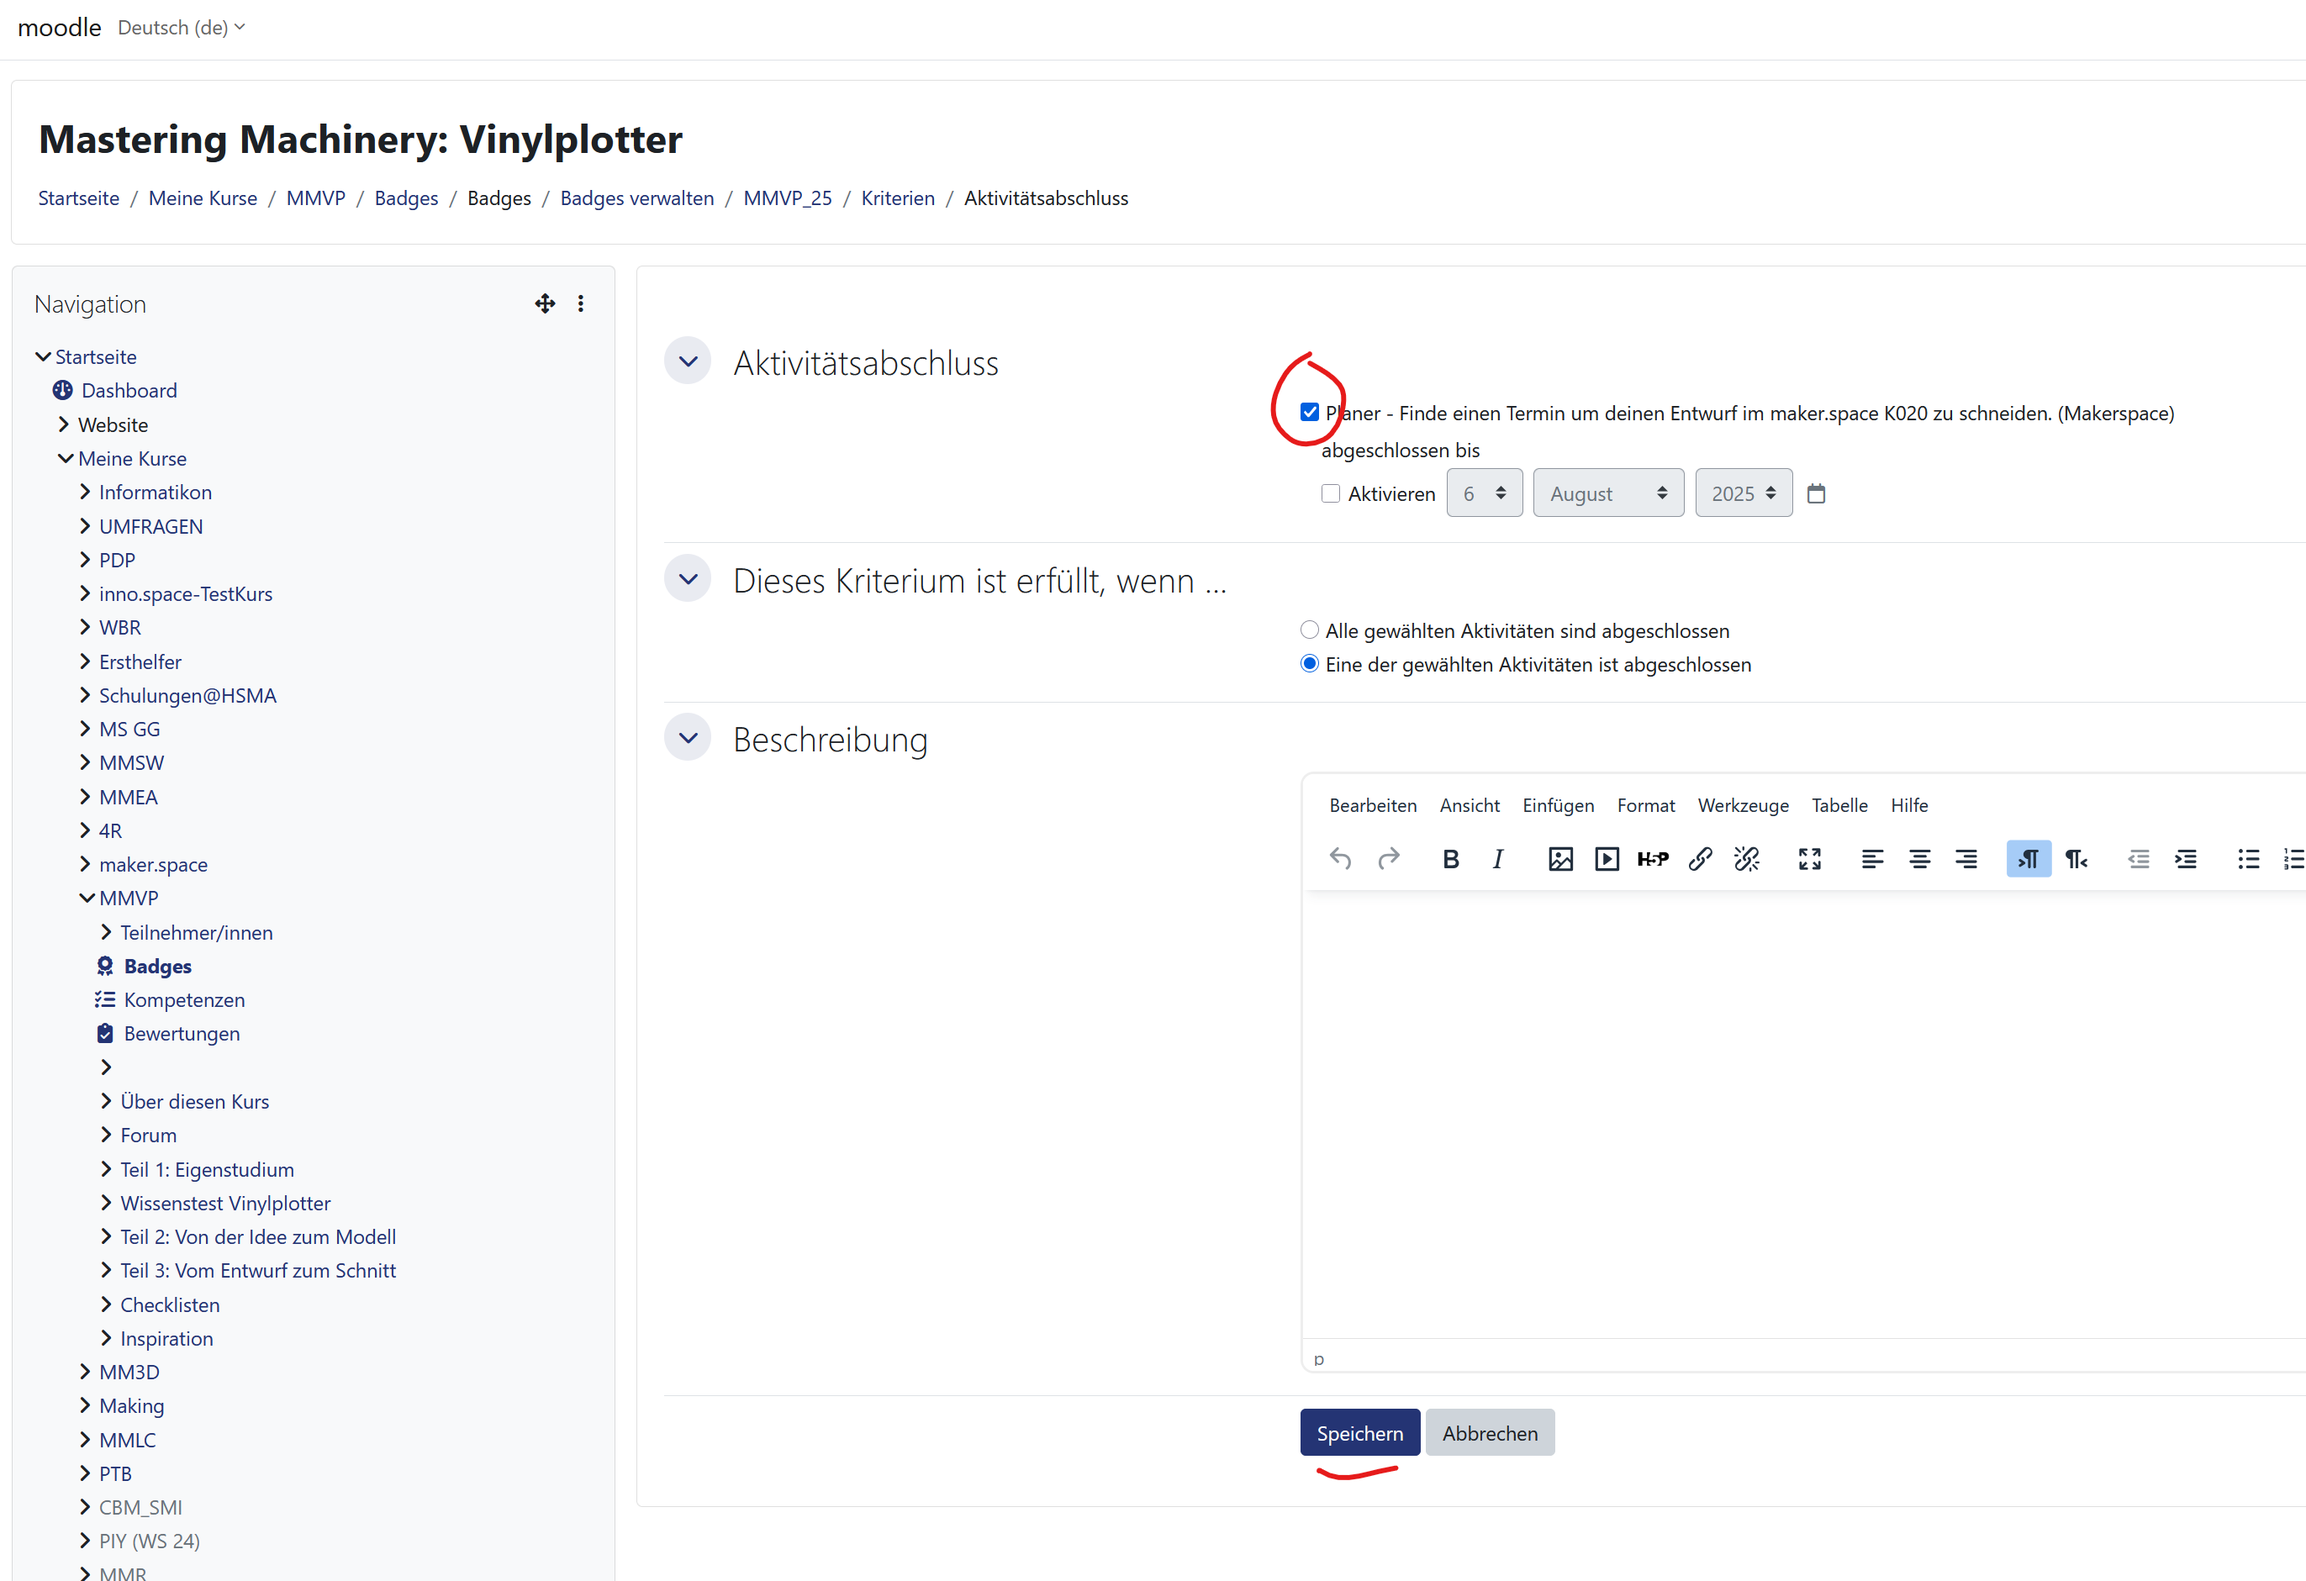
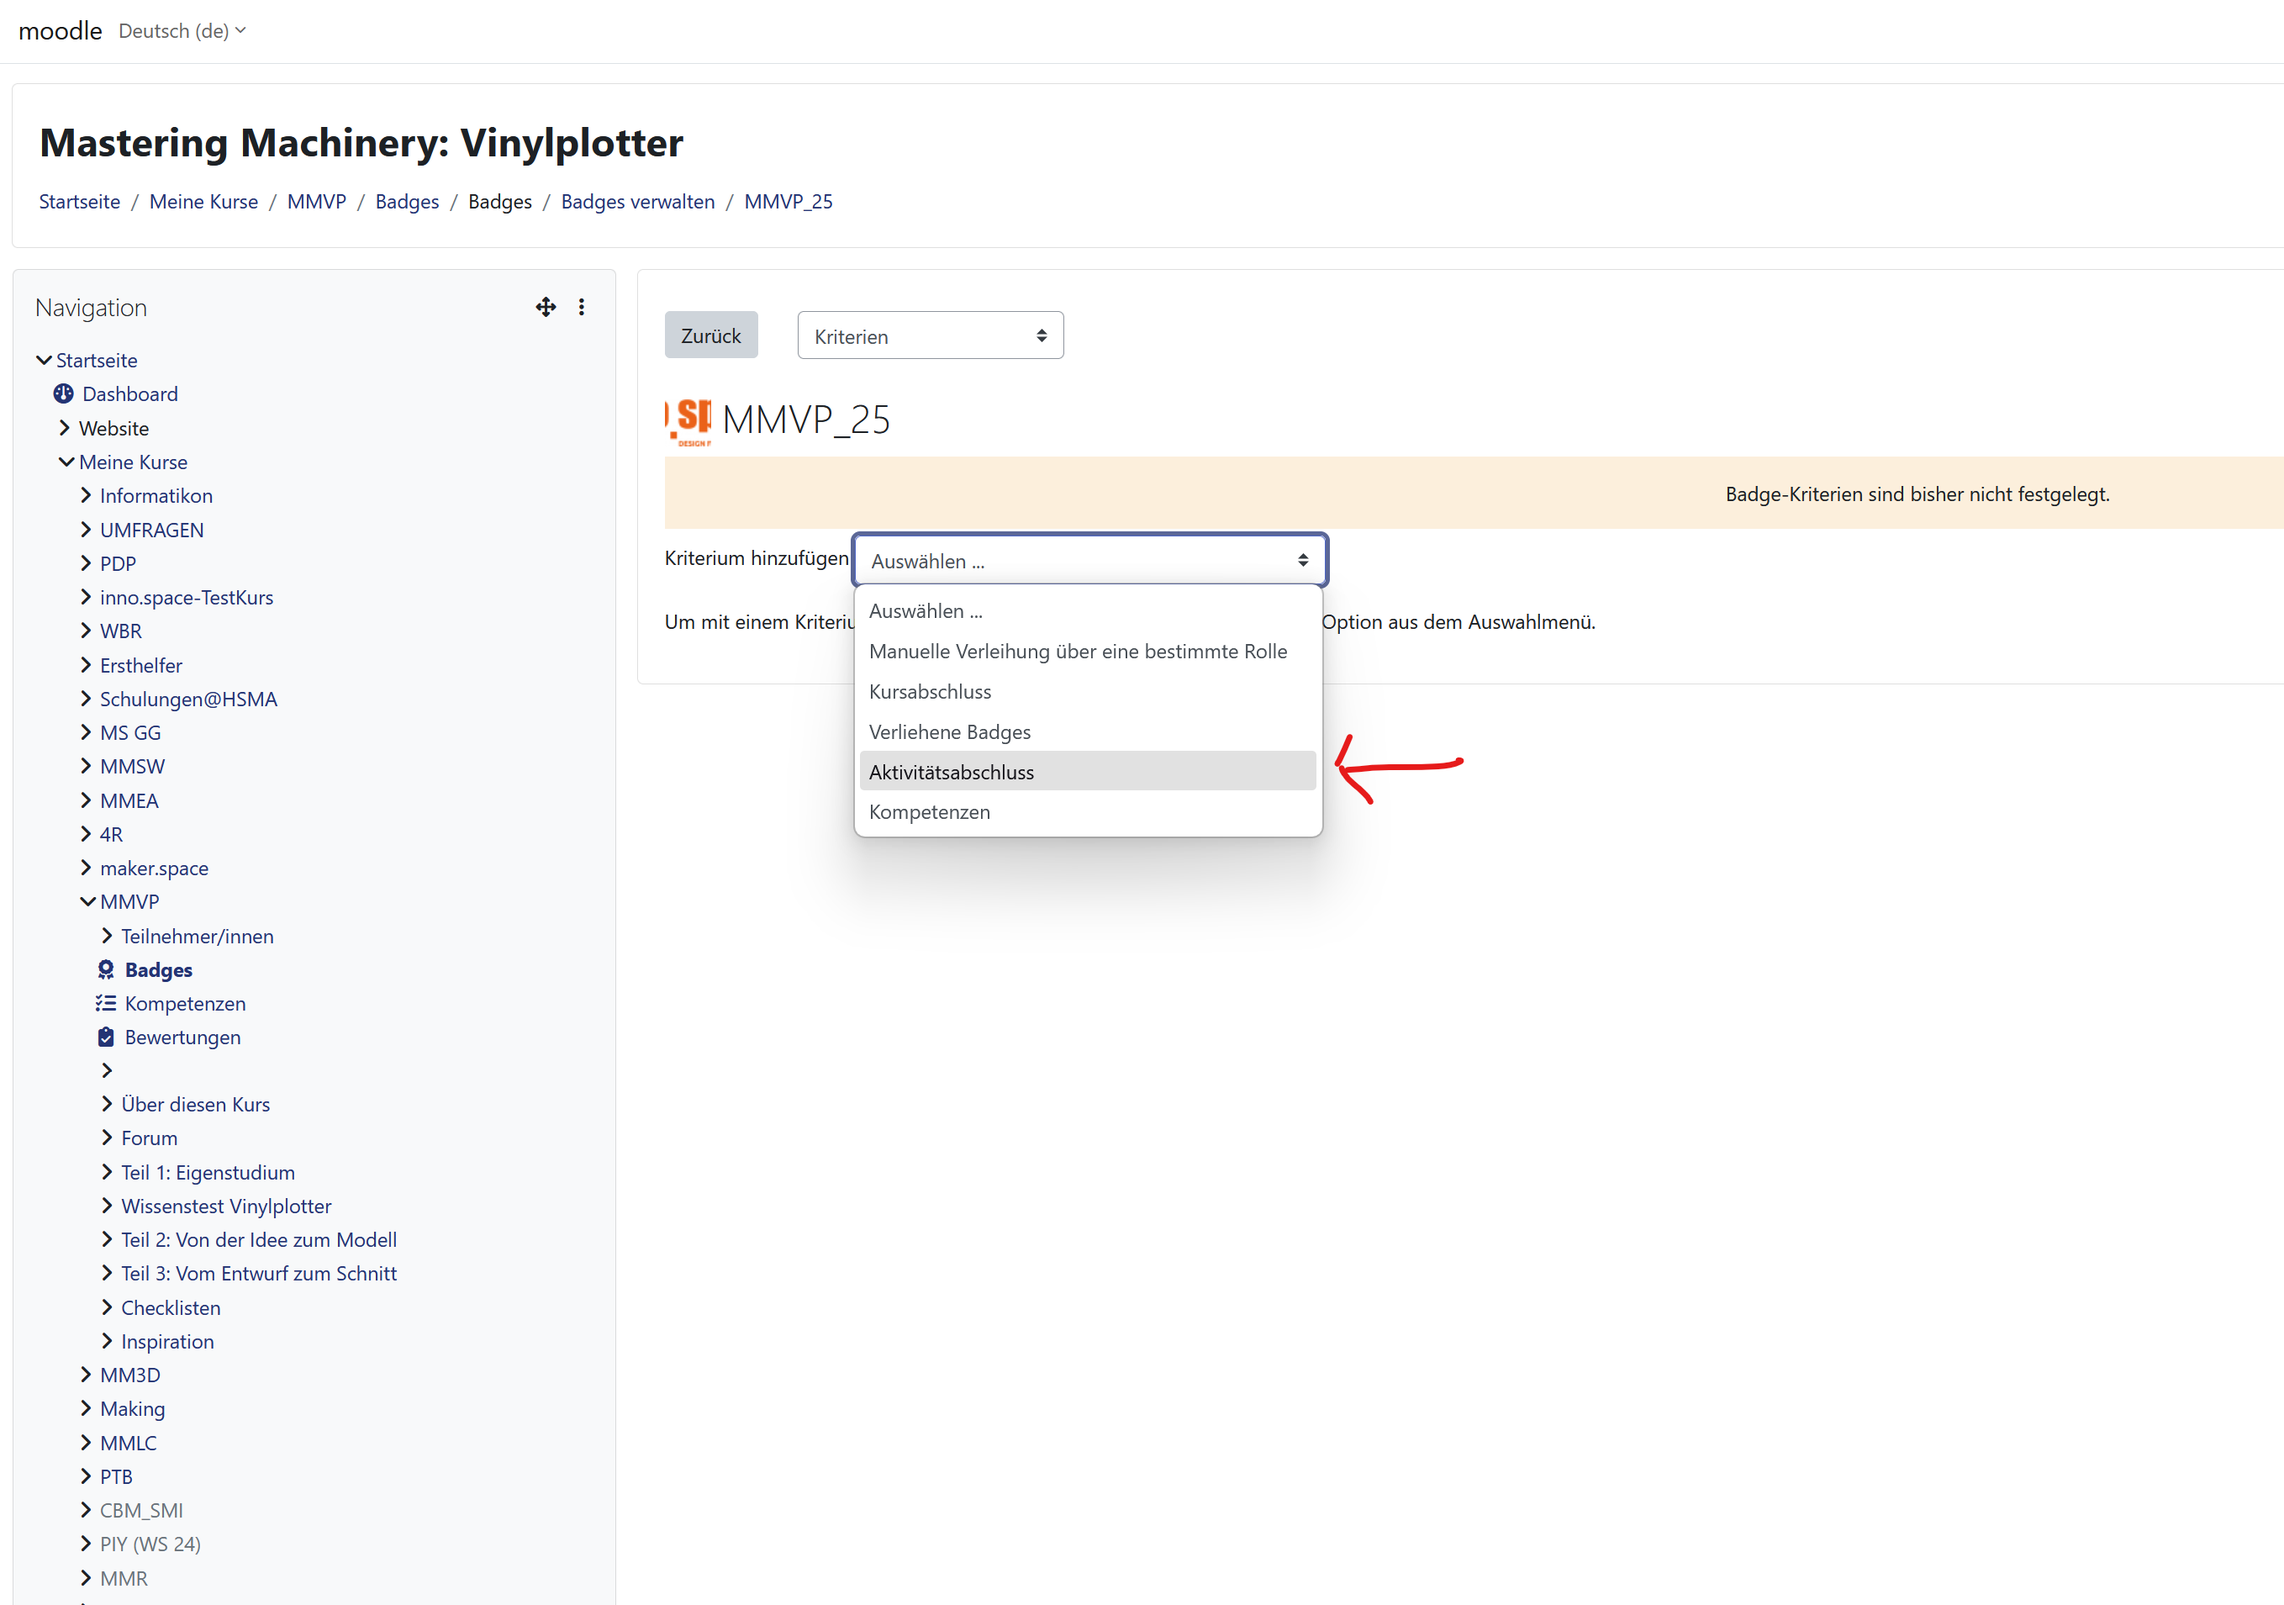
added tutorial for planner and registration

diff --git a/README.md b/README.md
@@ -61,10 +61,63 @@ Der entsprechende Teaching-Team Member leitet alle seine Moodle-Emails an dieses
 Das Feedback Formular sollte im maker.space Kurs angelegt werden und nur verfügbar sein, wenn vorher die Aktivität zum Hochladen der Nutzungsordnung abgeschlossen wurde.
 Nachfolgend befindet sich eine Schritt für Schritt Anleitung zum korrekten Anlegen des Feedback Formulars. Da die Flexibilität der Integration sehr eingeschränkt ist, bitte unbedingt alle Aktivitätsnamen etc. exakt übernehmen inkl. Groß- und Kleinschreibung.
 
+### 1. Feedback anlegen - Allgemeines
+- Der Name des Feedbacks muss exakt `FabMan Anmeldung` lauten.
+
+<center><img src="img_readme/Feedback1.png" width="1200" /></center>
+
+### 2. Feedback anlegen - Einstellungen für Fragen und Einträge / Voraussetzungen
+- Anonym ausfüllen: Ja
+- Mehrfache Abgabe: Ja
+- Systemnachricht bei Abgaben senden: Nein
+- Automatische Nummerierung: Nein
+- Als Voraussetzung definieren, dass Studi die Nutzungsordnung hochgeladen hat und eine erfolgreiche Bewertung erhalten hat. 
+
+<center><img src="img_readme/Feedback2.png" width="1200" /></center>
+
+### 3. Feedback speichern
+- Speichern und zum Kurs
+
+<center><img src="img_readme/Feedback3.png" width="1200" /></center>
+
+### 4. Antwortfeld anlegen
+- In das Feedback navigieren
+- Elemente bearbeiten
+
+<center><img src="img_readme/Feedback4.png" width="1200" /></center>
+
+### 5. Art des Antwortfelds
+- Als Art der Frage `Numerische Antwort` auswählen 
+
+<center><img src="img_readme/Feedback5.png" width="1200" /></center>
+
+### 6. Einstellungen des Antwortfelds
+- Erforderlich: Ja
+- Frage: Matrikelnummer
+- Position: 1
+- Änderungen speichern
+
+<center><img src="img_readme/Feedback6.png" width="1200" /></center>
+
+### 7. Extraktion des Feldnamens der Matrikelnummer
+1. Formular mit einer einzigartigen Nummer ausfüllen, die später über eine Suche im HTML wiedergefunden werden kann. Beispiel: 123456789
+2. Auf Email warten, in der steht, dass das Formular ausgefüllt wurde
+3. Auf Link (Das Feedback ist auf der Website verfügbar) in der Email klicken
+4. Rechtsklick auf die Seite -> Seitenquelltext untersuchen
+5. Mit Strg + F die zuvor eingegebene Nummer im Seitenquelltext suchen (z.B. 123456789)
+6. `name` Attribut des HTML Tags mit der Matrikelnummer (im Screenshot gelb markiert) identifizieren und in `MATNO_FIELDNAME` Environment Variable in der .env des Servers, auf dem die Integration läuft, eintragen.
+
+<center><img src="img_readme/Feedback7.png" width="1200" /></center>
 
 
 ## Terminbuchungskalender für Präsenzschulungen
-Pro Schulung wird im entsprechenden Moodle Kurs ein Terminbuchungskalender (Planer) angelegt. Damit alles reibungslos funktioniert, muss der Kalender entsprechend der nachfolgenden Anleitung angelegt werden.
+Pro Schulung wird im entsprechenden Moodle Kurs ein Terminbuchungskalender (Planer) angelegt. Damit alles reibungslos funktioniert, muss der Kalender entsprechend der nachfolgenden Anleitung angelegt bzw. angepasst werden.
+
+
+
+
+## Durchführung von Präsenzschulungen
+Nach Durchführung einer Präsenzschulung müssen alle Teilnehmer im jeweiligen Kalendertermin eine Bewertung erhalten, damit das entsprechende Badge vergeben wird.
 
 ## Badges
 Pro Schulung wird im entsprechenden Moodle Kurs ein Badge angelegt. 
@@ -104,3 +157,5 @@ Es dürfen nur Personen FabMan Accounts erhalten, **welche die Nutzungsordnung i
 - Infoposter / Aufsteller zur Systemumstellung am maker.space Eingang
 
 - Abfangen, wenn ein Studi versucht sich zu registrieren, aber schon einen Account hat -> keine Nachricht an das TTeam senden, sondern dem Nutzer per Mail eine Info senden, dass er bereits einen Account hat
+
+- Irgendwie das Plugin customforms installiert und aktiviert bekommen, damit die Formularantworten direkt in der Mail stehen können und nicht der Umweg über das WebScraping genommen werden muss
